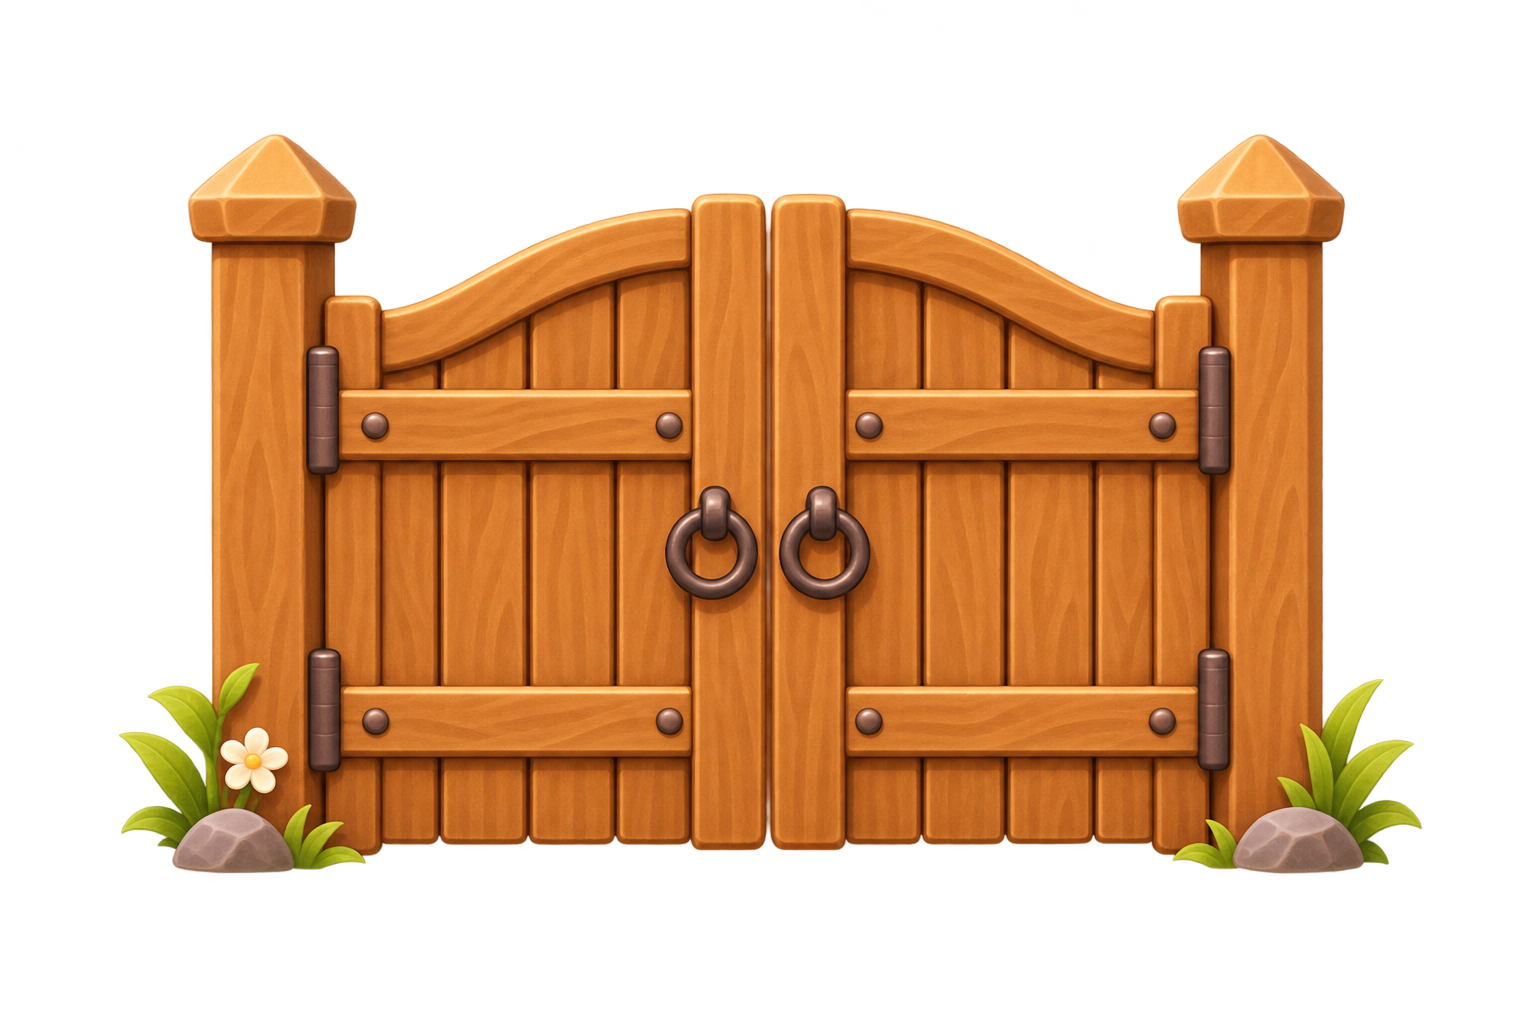
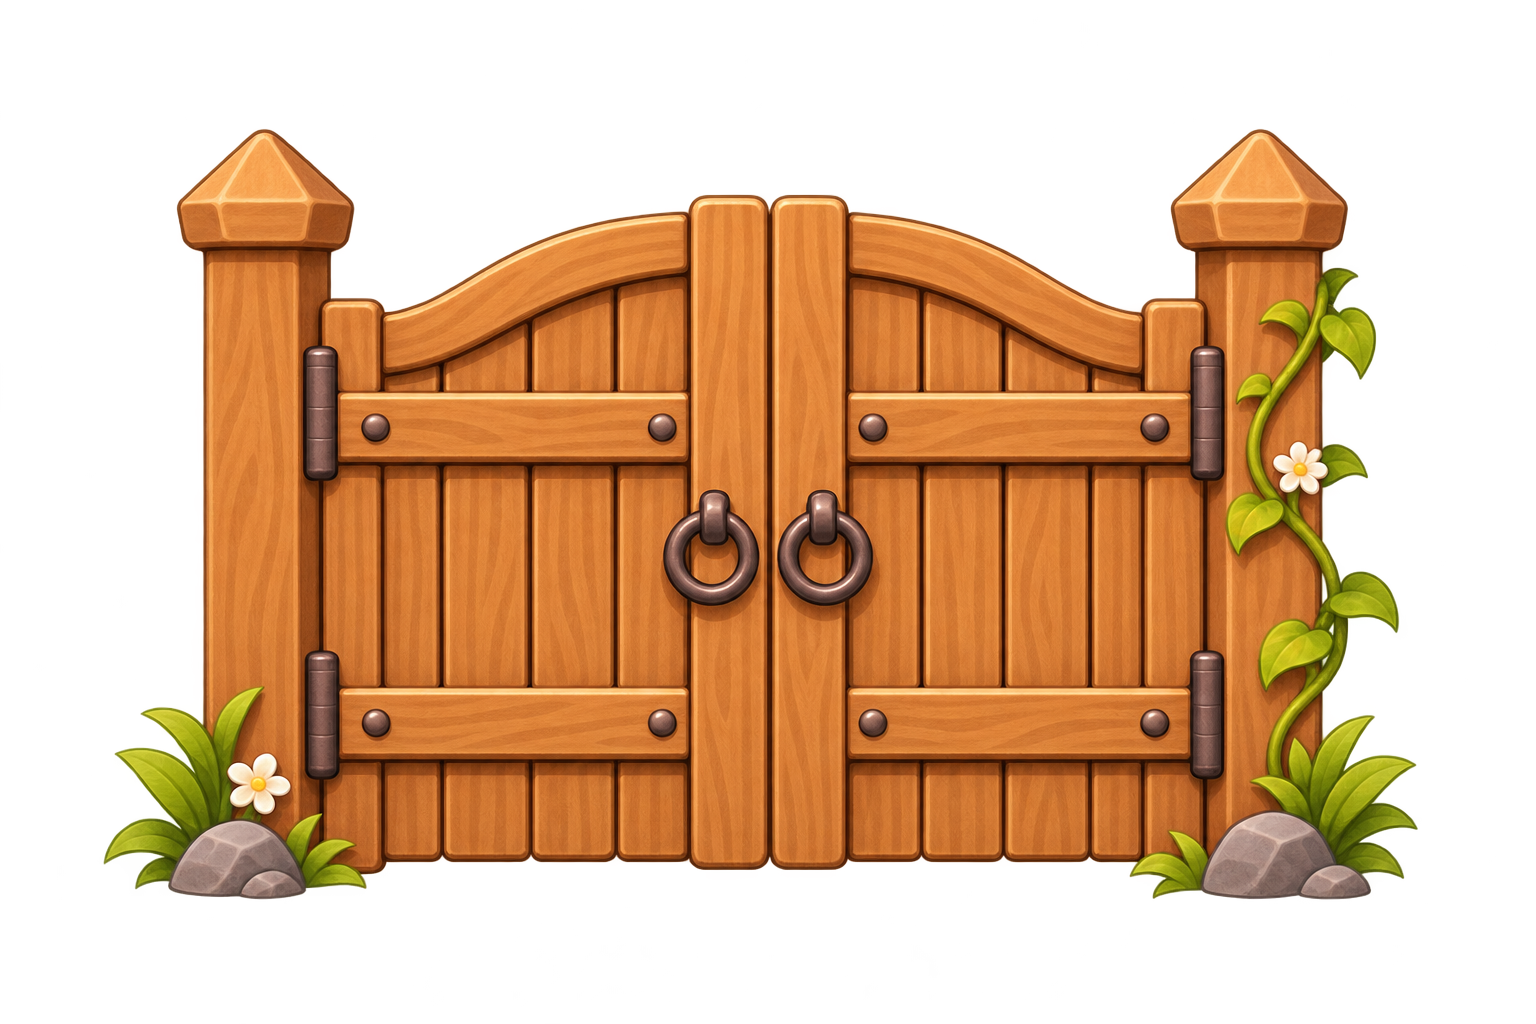
Portail du jardin commun : image définitive, plus grand, boîte aux lettres réduite à côté (v3.1.37, test)
Claude-Session: https://claude.ai/code/session_018D5HKHv8P36r9XqBrjDYb3

Changed region(s): [[0.0625, 0.125, 0.9375, 0.875]]

diff --git a/index.html b/index.html
@@ -6,13 +6,13 @@
   <title>Potager idle</title>
   <meta name="description" content="Un petit jeu idle de potager : plante, arrose, récolte, cuisine et découvre des variétés hybrides.">
   <meta name="theme-color" content="#fdf3e7" id="theme-color">
-  <link rel="manifest" href="manifest.webmanifest?v=436">
+  <link rel="manifest" href="manifest.webmanifest?v=437">
   <link rel="icon" href="icons/favicon-32.png" sizes="32x32" type="image/png">
   <link rel="icon" href="icons/favicon-64.png" sizes="64x64" type="image/png">
   <link rel="icon" href="icons/icon-192.png" sizes="192x192" type="image/png">
   <link rel="preload" href="fonts/nunito-latin.woff2" as="font" type="font/woff2" crossorigin>
   <link rel="preload" href="fonts/fredoka-latin.woff2" as="font" type="font/woff2" crossorigin>
-  <link rel="stylesheet" href="css/style.css?v=436">
+  <link rel="stylesheet" href="css/style.css?v=437">
 </head>
 <body>
 <div id="app">
@@ -45,27 +45,27 @@
 <div id="fx"></div>
 <div id="toasts" aria-live="polite"></div>
 
-<script src="js/env.js?v=436"></script>
-<script src="js/typo.js?v=436"></script>
-<script src="js/data.js?v=436"></script>
-<script src="assets/img/manifest.js?v=436"></script>
-<script src="js/art.js?v=436"></script>
-<script src="js/seasons.js?v=436"></script>
-<script src="js/sound.js?v=436"></script>
-<script src="js/achievements.js?v=436"></script>
-<script src="js/cloud-config.js?v=436"></script>
-<script src="js/cloud.js?v=436"></script>
-<script src="js/profile.js?v=436"></script>
-<script src="js/friends.js?v=436"></script>
-<script src="js/visit.js?v=436"></script>
-<script src="js/water.js?v=436"></script>
-<script src="js/trade.js?v=436"></script>
-<script src="js/like.js?v=436"></script>
-<script src="js/goals.js?v=436"></script>
-<script src="js/news.js?v=436"></script>
-<script src="js/balades.js?v=436"></script>
-<script src="js/jardin.js?v=436"></script>
-<script src="js/tuto.js?v=436"></script>
-<script src="js/game.js?v=436"></script>
+<script src="js/env.js?v=437"></script>
+<script src="js/typo.js?v=437"></script>
+<script src="js/data.js?v=437"></script>
+<script src="assets/img/manifest.js?v=437"></script>
+<script src="js/art.js?v=437"></script>
+<script src="js/seasons.js?v=437"></script>
+<script src="js/sound.js?v=437"></script>
+<script src="js/achievements.js?v=437"></script>
+<script src="js/cloud-config.js?v=437"></script>
+<script src="js/cloud.js?v=437"></script>
+<script src="js/profile.js?v=437"></script>
+<script src="js/friends.js?v=437"></script>
+<script src="js/visit.js?v=437"></script>
+<script src="js/water.js?v=437"></script>
+<script src="js/trade.js?v=437"></script>
+<script src="js/like.js?v=437"></script>
+<script src="js/goals.js?v=437"></script>
+<script src="js/news.js?v=437"></script>
+<script src="js/balades.js?v=437"></script>
+<script src="js/jardin.js?v=437"></script>
+<script src="js/tuto.js?v=437"></script>
+<script src="js/game.js?v=437"></script>
 </body>
 </html>

diff --git a/css/style.css b/css/style.css
@@ -1818,8 +1818,8 @@ button.sg-card { cursor: pointer; }
 .fr-row.pending { opacity: .7; }
 .sg-leave { color: #c9563f; justify-self: center; }
 /* Portail du jardin commun en haut à droite ; la boîte aux lettres à sa gauche, devant, le chevauche un peu */
-.garden > .sg-portal { top: -30px; right: 1%; left: auto; bottom: auto; width: min(26%, 112px); aspect-ratio: 480 / 274; z-index: 4; }
-.garden:has(> .sg-portal) > .mailbox { right: calc(1% + min(26%, 112px) - min(7%, 30px)); z-index: 6; }
+.garden > .sg-portal { top: -50px; right: 1%; left: auto; bottom: auto; width: min(36%, 156px); aspect-ratio: 520 / 308; z-index: 4; }
+.garden:has(> .sg-portal) > .mailbox { top: -24px; width: min(14%, 60px); right: calc(1% + min(36%, 156px) - min(6%, 26px)); z-index: 6; }
 .sg-done { font-size: .8rem; font-weight: 800; color: #3d7a2a; background: #e3f4d8; border-radius: 99px; padding: 4px 10px; white-space: nowrap; }
 .btn.ghost.sg-leave { color: #c9563f; }
 .sg-bonus { grid-column: 1 / -1; display: flex; align-items: center; gap: 6px; flex-wrap: wrap; padding: 6px 8px; border-radius: 12px; background: var(--sun-soft); border: 1px dashed #e0b84a; }

diff --git a/js/game.js b/js/game.js
@@ -1,7 +1,7 @@
 "use strict";
 /* Numéro de version affiché dans les Paramètres.
    À chaque mise à jour : changer APP_VERSION, le ?v= dans index.html et VERSION dans sw.js. */
-const APP_VERSION = "3.1.36" + (IS_TEST ? "-test" : "");
+const APP_VERSION = "3.1.37" + (IS_TEST ? "-test" : "");
 /* ---------------- Helpers ---------------- */
 const $ = s => document.querySelector(s);
 const now = () => Date.now();

diff --git a/sw.js b/sw.js
@@ -1,6 +1,6 @@
 /* Service worker de Potager idle : rend le jeu jouable hors-ligne.
    À chaque mise à jour du jeu, augmente VERSION pour que les téléphones téléchargent la nouvelle version. */
-const VERSION = "potager-v436";
+const VERSION = "potager-v437";
 const FILES = [
   "./",
   "index.html",

diff --git a/CHANGELOG.md b/CHANGELOG.md
@@ -122,6 +122,9 @@ Bonne saison au potager ! 🌸☀🍂❄
 
 ## Détail des mises à jour
 
+### 3.1.37 (version de test, préparation de la v4)
+- Portail du jardin commun : image définitive (avec la vigne), plus grand ; la boîte aux lettres est plus petite à côté, pour des proportions plus justes.
+
 ### 3.1.36 (version de test, préparation de la v4)
 - Nouvelle image du portail du jardin commun, en haut à droite du jardin ; la boîte aux lettres passe à sa gauche et le chevauche un peu.
 
